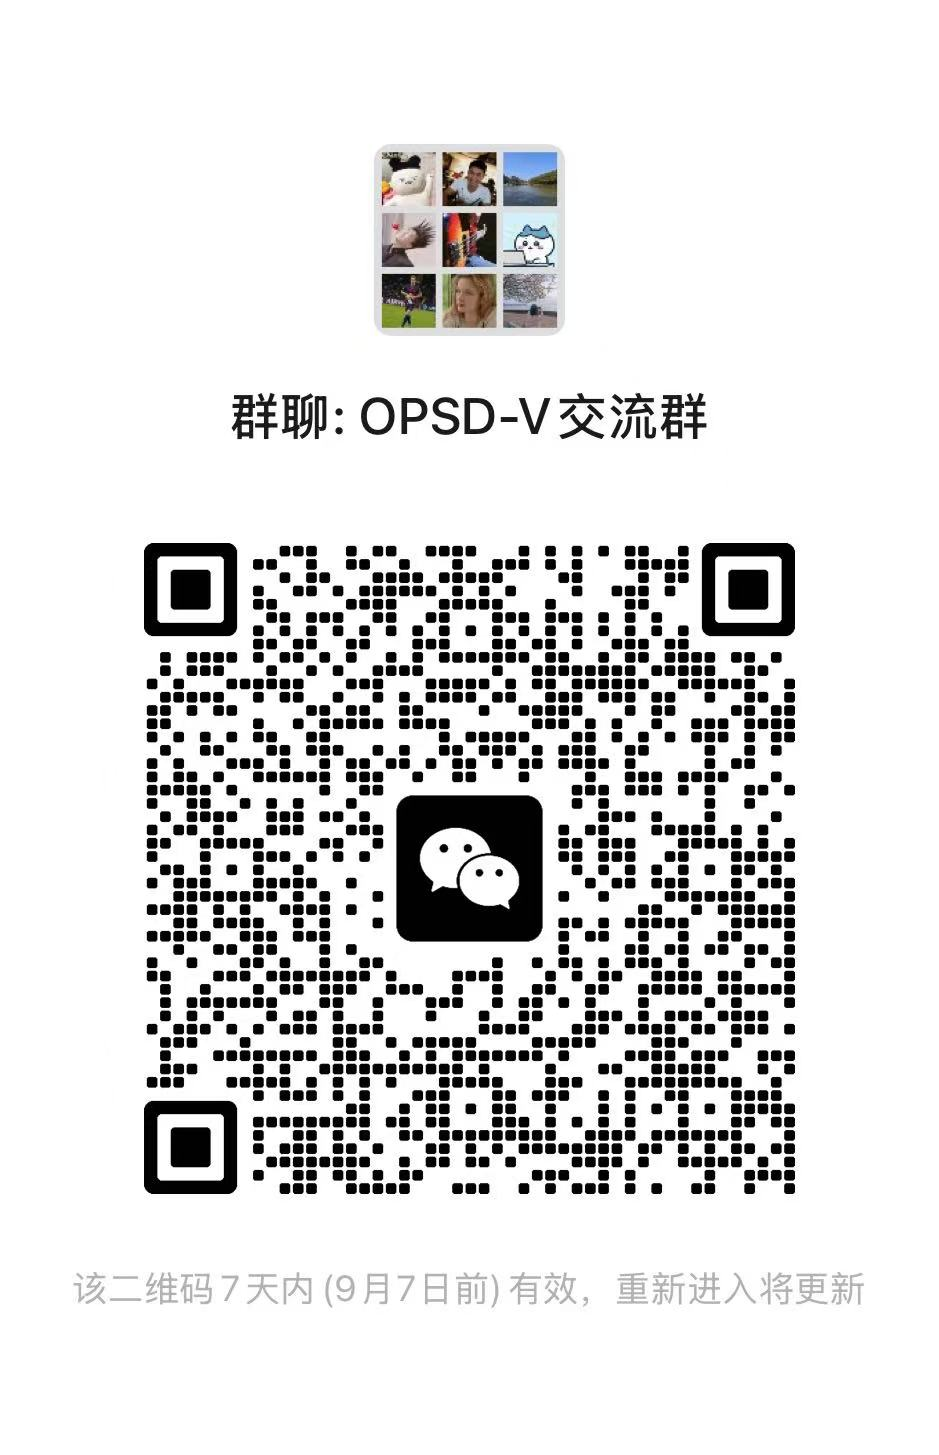
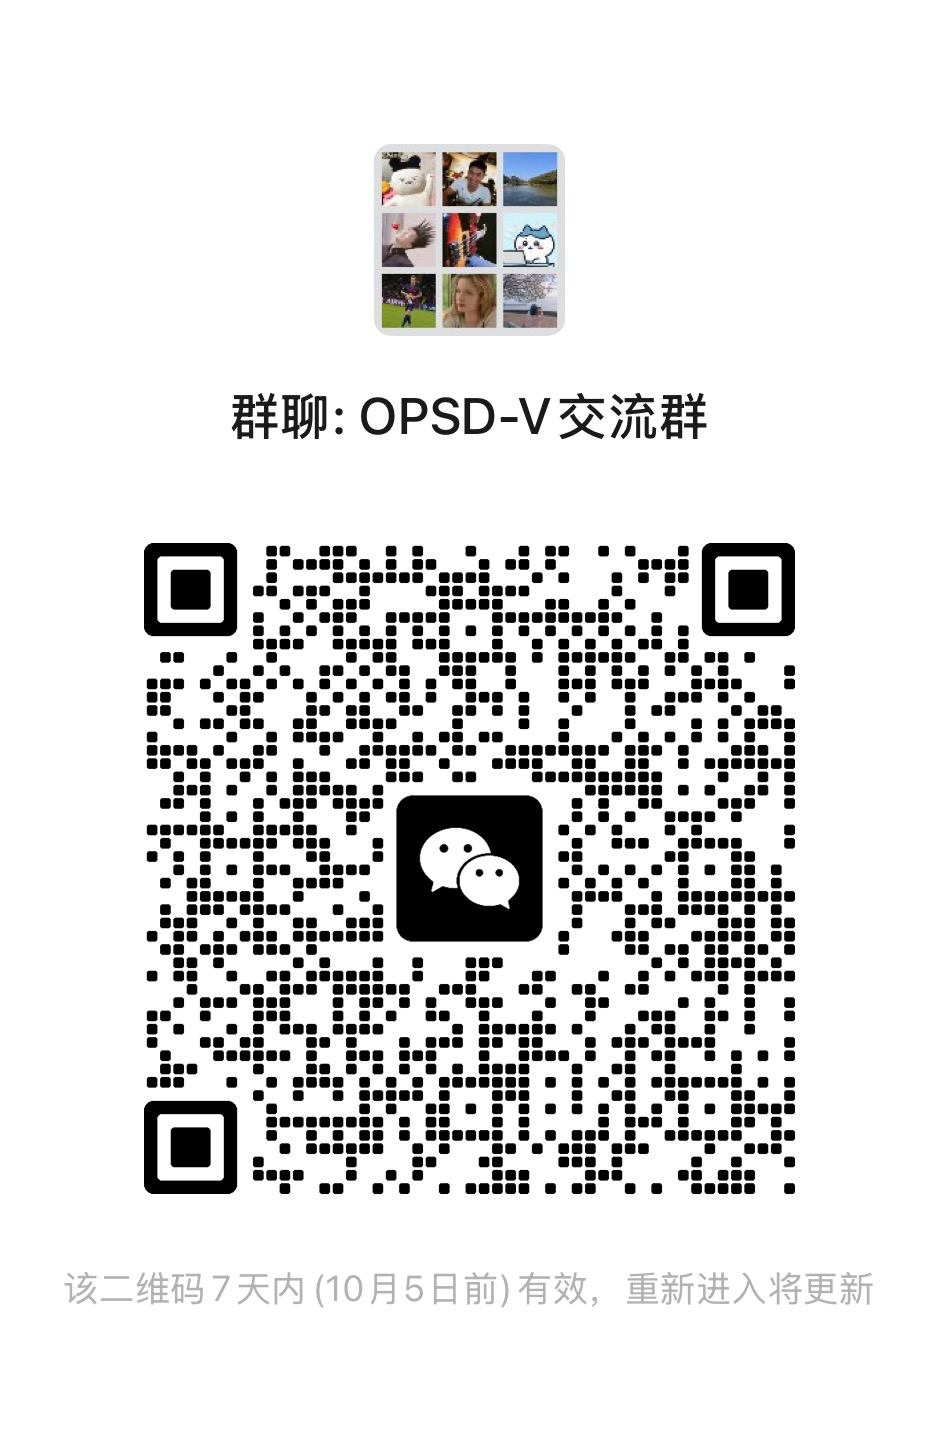
Update WeChat group QR code valid through October 5

Changed region(s): [[0.1544, 0.3711, 0.8647, 0.8351], [0.0618, 0.866, 0.6177, 0.8969], [0.6486, 0.866, 0.9265, 0.8969]]

diff --git a/README.md b/README.md
@@ -65,7 +65,7 @@
 </p>
 
 <p align="center">
-  Scan the QR code to join the OPSD-V discussion group. The code is valid until September 7, 2026.
+  Scan the QR code to join the OPSD-V discussion group. The code is valid until October 5, 2026.
 </p>
 
 OPSD-V is an on-policy self-distillation paradigm for post-training few-step autoregressive video diffusion models. It targets long-horizon error accumulation and weakened motion dynamics in distilled AR video generators while preserving the original few-step inference path. The student follows the exact deployment rollout, generating each chunk from its own evolving KV cache, while the teacher is evaluated at the same student-visited denoising states with a cleaner AR-consistent temporal cache built from real long-video context. This provides dense trajectory-level velocity supervision and improves long-horizon visual quality and motion dynamics without changing the sampler, number of denoising steps, or inference-time cache mechanism.
